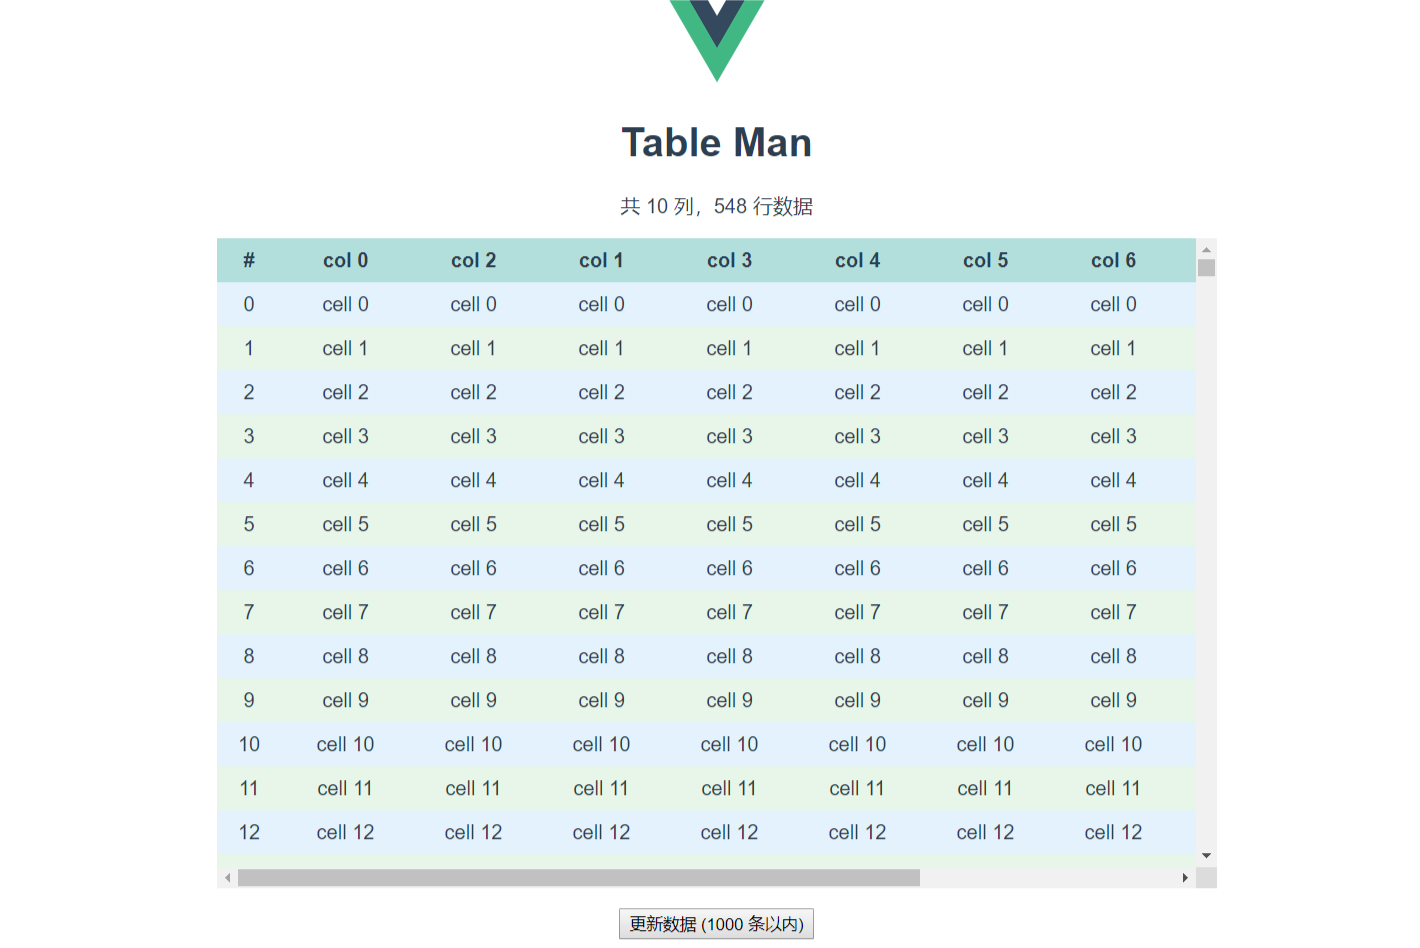
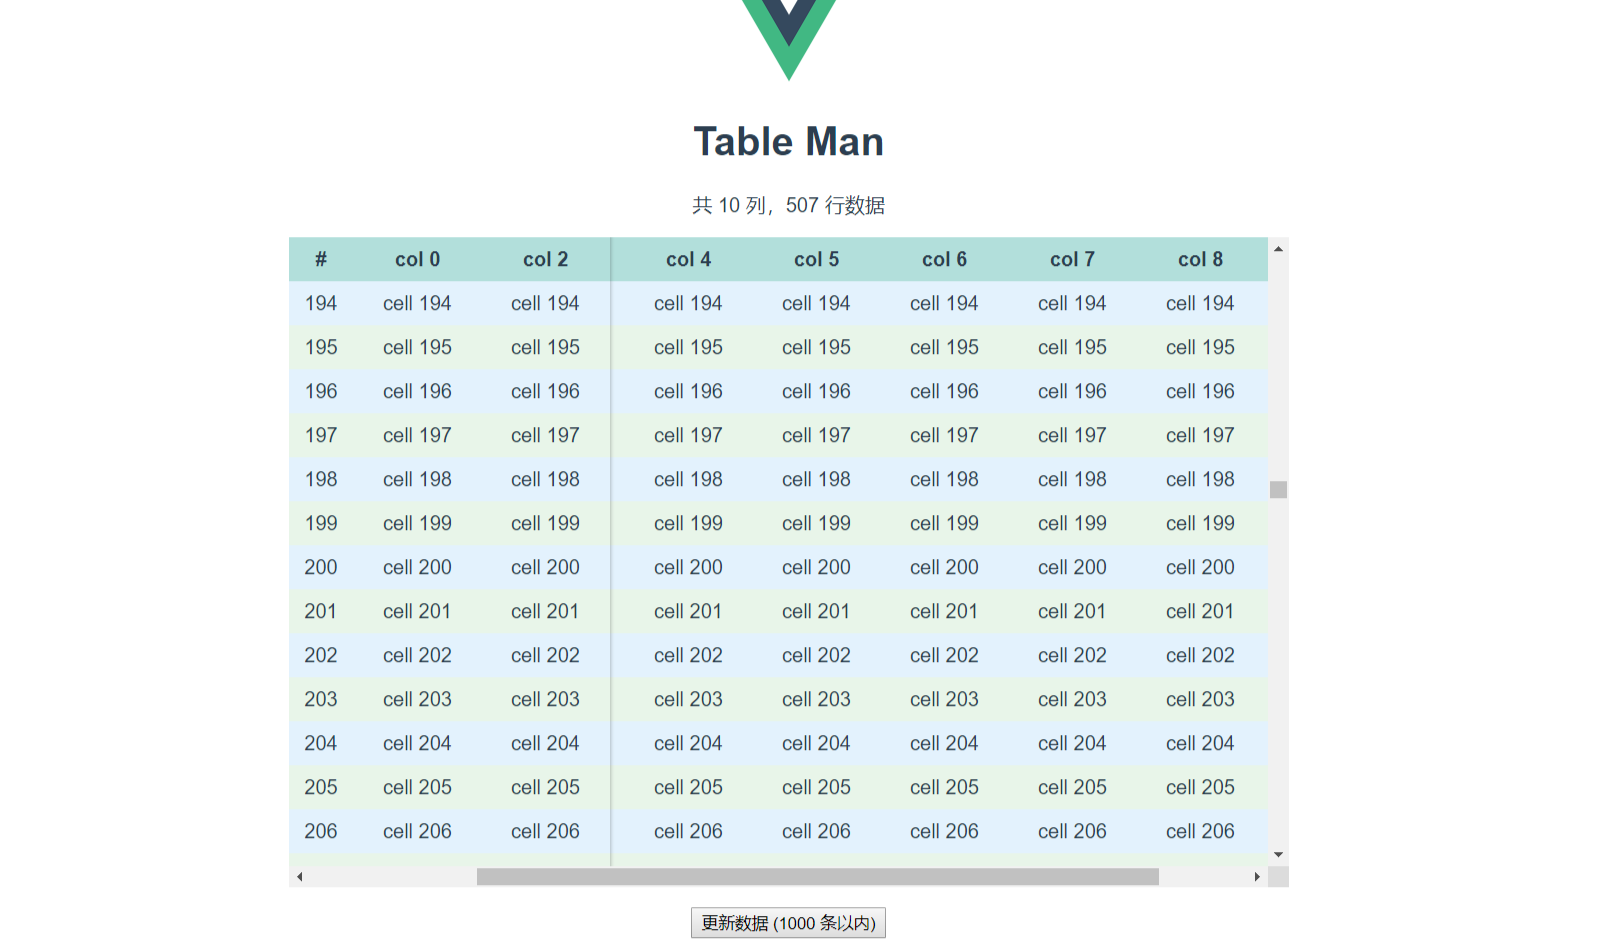
更新文档

diff --git a/README.md b/README.md
@@ -4,7 +4,11 @@
 
 ![preview.png](preview.png)
 
-该表格组件已经封转为单一的 vue 组件：`src/components/TableMan/index.vue`，直接复制到你的项目中，并参考 `src/App.vue` 食用 :)
+表格组件位于：`src/components/TableMan/index.vue`，可直接复制到你的项目中，并参考 `src/App.vue` 食用 :)
+
+Feature:
+- 固定列
+- ...
 
 ## Project setup
 ```
